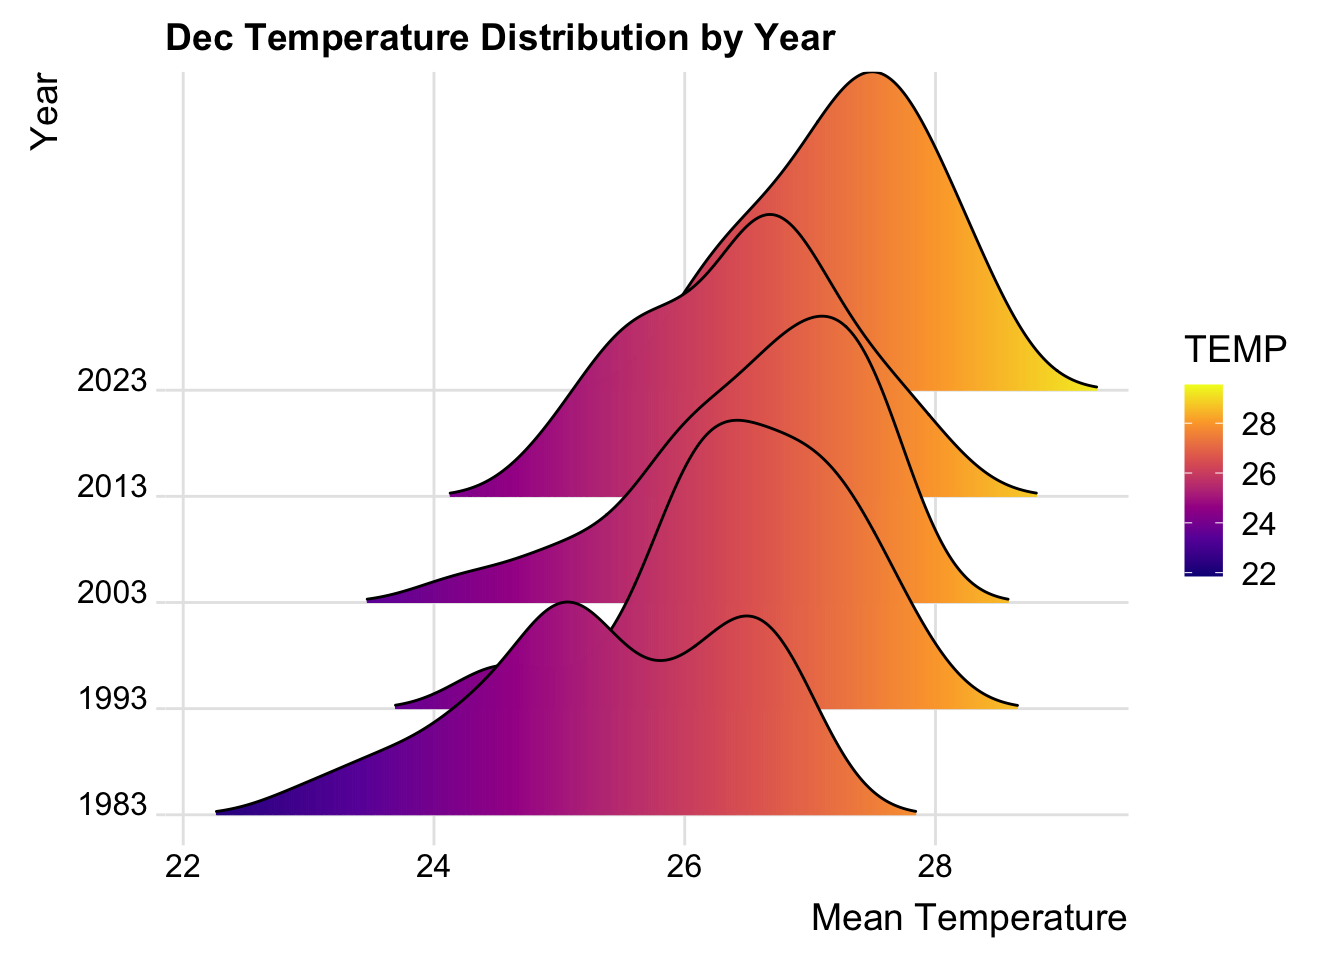
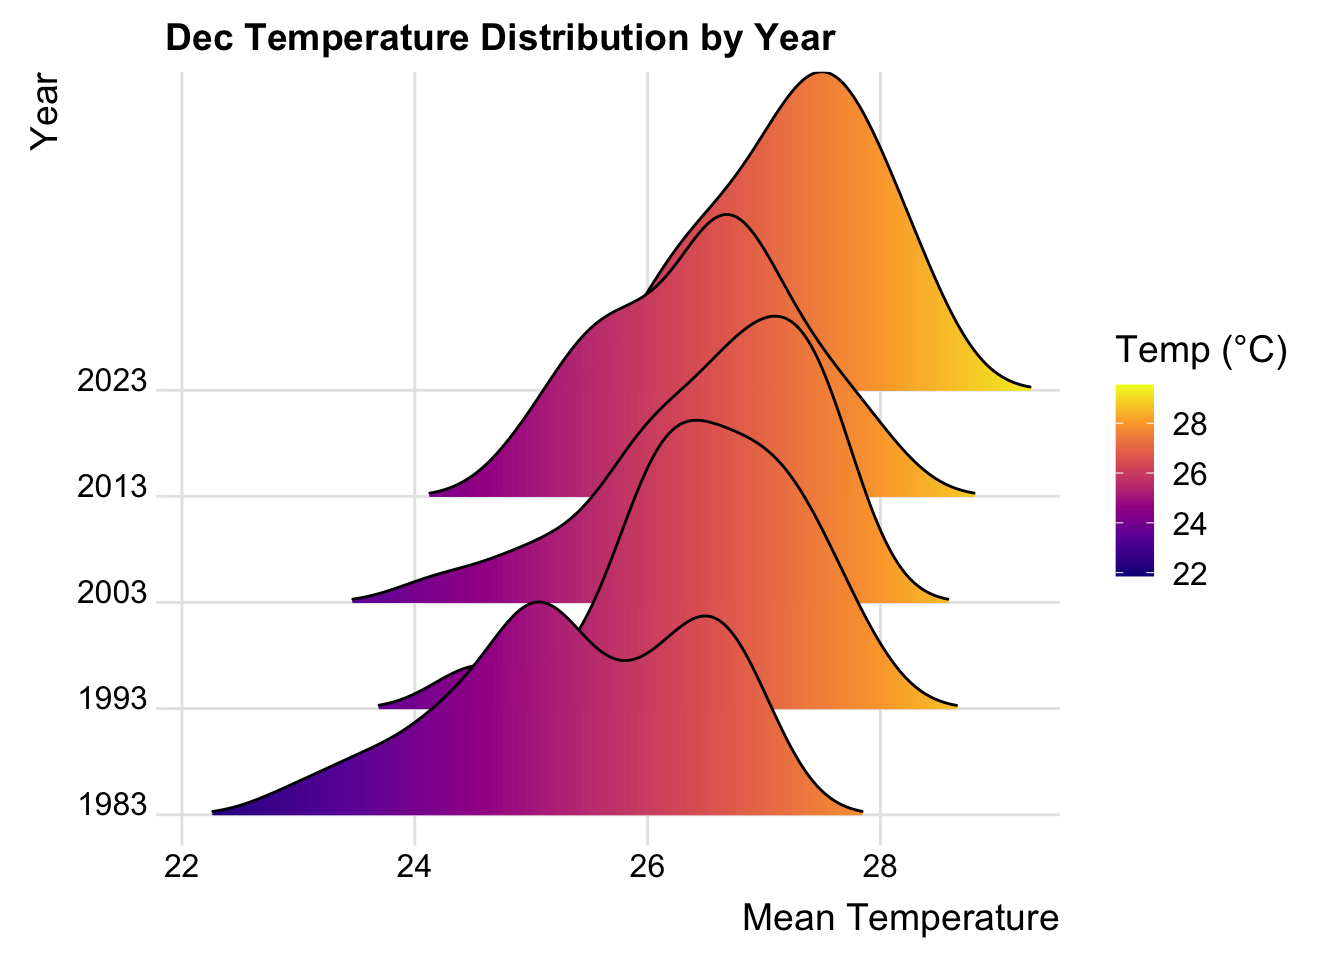
commit

diff --git a/_site/take home exercise 3/take home exercise 3.html b/_site/take home exercise 3/take home exercise 3.html
@@ -325,7 +325,7 @@ $ `Max Wind Speed (km/h)`     &lt;dbl&gt; 46.1, 36.4, 41.0, 31.7, 28.8, 32.4, 32
 <span id="cb5-4"><a href="#cb5-4" aria-hidden="true" tabindex="-1"></a>    <span class="fu">geom_density_ridges_gradient</span>(</span>
 <span id="cb5-5"><a href="#cb5-5" aria-hidden="true" tabindex="-1"></a>    <span class="at">scale =</span> <span class="dv">3</span>,</span>
 <span id="cb5-6"><a href="#cb5-6" aria-hidden="true" tabindex="-1"></a>    <span class="at">rel_min_height =</span> <span class="fl">0.01</span>) <span class="sc">+</span></span>
-<span id="cb5-7"><a href="#cb5-7" aria-hidden="true" tabindex="-1"></a>  <span class="fu">scale_fill_viridis_c</span>(<span class="at">name =</span> <span class="st">"TEMP"</span>,</span>
+<span id="cb5-7"><a href="#cb5-7" aria-hidden="true" tabindex="-1"></a>  <span class="fu">scale_fill_viridis_c</span>(<span class="at">name =</span> <span class="st">"Temp (°C)"</span>,</span>
 <span id="cb5-8"><a href="#cb5-8" aria-hidden="true" tabindex="-1"></a>                       <span class="at">option =</span> <span class="st">"C"</span>) <span class="sc">+</span></span>
 <span id="cb5-9"><a href="#cb5-9" aria-hidden="true" tabindex="-1"></a>  <span class="fu">scale_x_continuous</span>(</span>
 <span id="cb5-10"><a href="#cb5-10" aria-hidden="true" tabindex="-1"></a>    <span class="at">name =</span> <span class="st">"Mean Temperature"</span>,</span>
